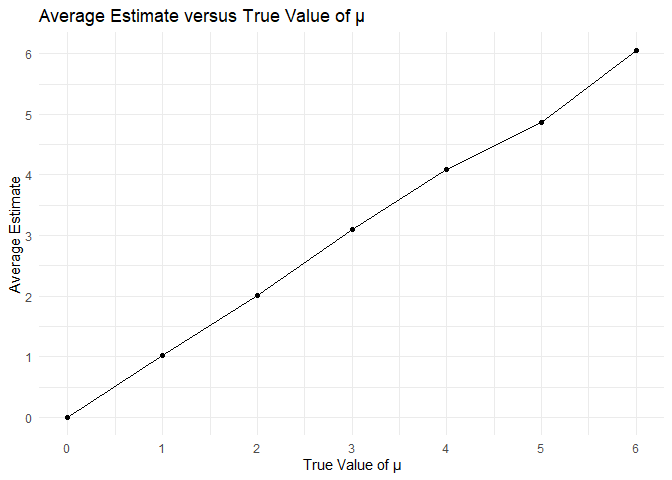
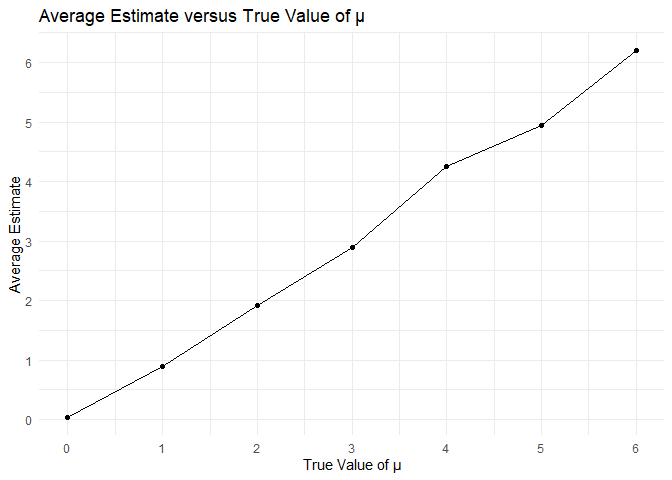
correcting codes

diff --git a/p8105_hw5_yl5508.md b/p8105_hw5_yl5508.md
@@ -8,6 +8,7 @@ It’s a proj for HW5 about ITERATION.
 ``` r
 library(tidyverse)
 options(digits = 2)
+set.seed(1)
 ```
 
 ## Problem 1
@@ -221,16 +222,16 @@ mu_0_outcome
     ## # A tibble: 5,000 × 4
     ##       mu  iter estimate p_value
     ##    <dbl> <int>    <dbl>   <dbl>
-    ##  1     0     1   -1.32   0.233 
-    ##  2     0     2   -1.07   0.235 
-    ##  3     0     3   -1.08   0.329 
-    ##  4     0     4   -0.231  0.804 
-    ##  5     0     5   -0.739  0.424 
-    ##  6     0     6    0.200  0.823 
-    ##  7     0     7   -0.348  0.662 
-    ##  8     0     8    1.71   0.0200
-    ##  9     0     9   -0.833  0.375 
-    ## 10     0    10    0.256  0.824 
+    ##  1     0     1    0.412  0.629 
+    ##  2     0     2    0.664  0.368 
+    ##  3     0     3    0.551  0.534 
+    ##  4     0     4    0.567  0.487 
+    ##  5     0     5   -1.65   0.0599
+    ##  6     0     6    1.19   0.229 
+    ##  7     0     7    0.334  0.738 
+    ##  8     0     8   -1.19   0.209 
+    ##  9     0     9    0.122  0.887 
+    ## 10     0    10    0.684  0.472 
     ## # ℹ 4,990 more rows
 
 ``` r
@@ -255,16 +256,16 @@ mu_0to6
     ## # A tibble: 35,000 × 4
     ##       mu  iter estimate p_value
     ##    <dbl> <int>    <dbl>   <dbl>
-    ##  1     0     1   -1.32   0.233 
-    ##  2     0     2   -1.07   0.235 
-    ##  3     0     3   -1.08   0.329 
-    ##  4     0     4   -0.231  0.804 
-    ##  5     0     5   -0.739  0.424 
-    ##  6     0     6    0.200  0.823 
-    ##  7     0     7   -0.348  0.662 
-    ##  8     0     8    1.71   0.0200
-    ##  9     0     9   -0.833  0.375 
-    ## 10     0    10    0.256  0.824 
+    ##  1     0     1    0.412  0.629 
+    ##  2     0     2    0.664  0.368 
+    ##  3     0     3    0.551  0.534 
+    ##  4     0     4    0.567  0.487 
+    ##  5     0     5   -1.65   0.0599
+    ##  6     0     6    1.19   0.229 
+    ##  7     0     7    0.334  0.738 
+    ##  8     0     8   -1.19   0.209 
+    ##  9     0     9    0.122  0.887 
+    ## 10     0    10    0.684  0.472 
     ## # ℹ 34,990 more rows
 
 ``` r
